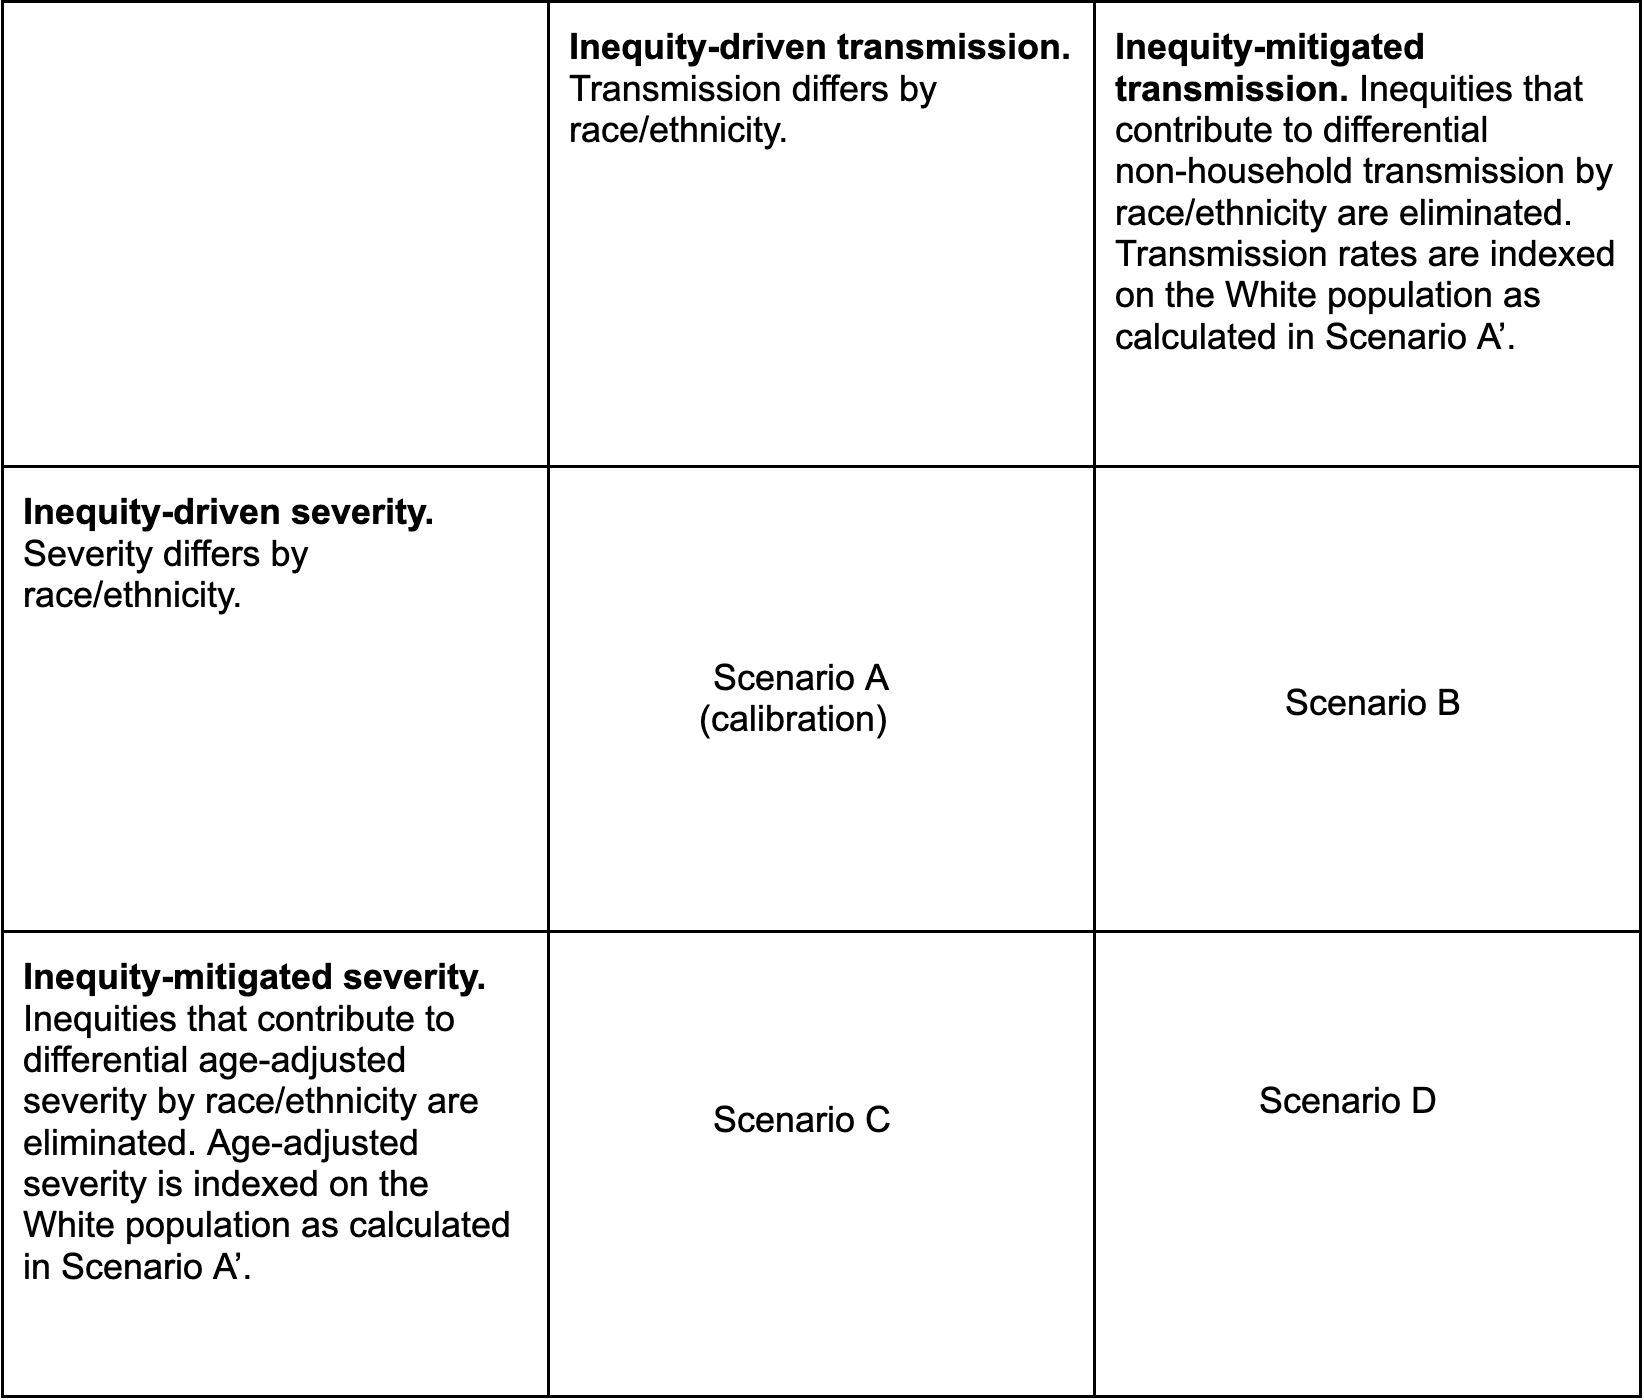
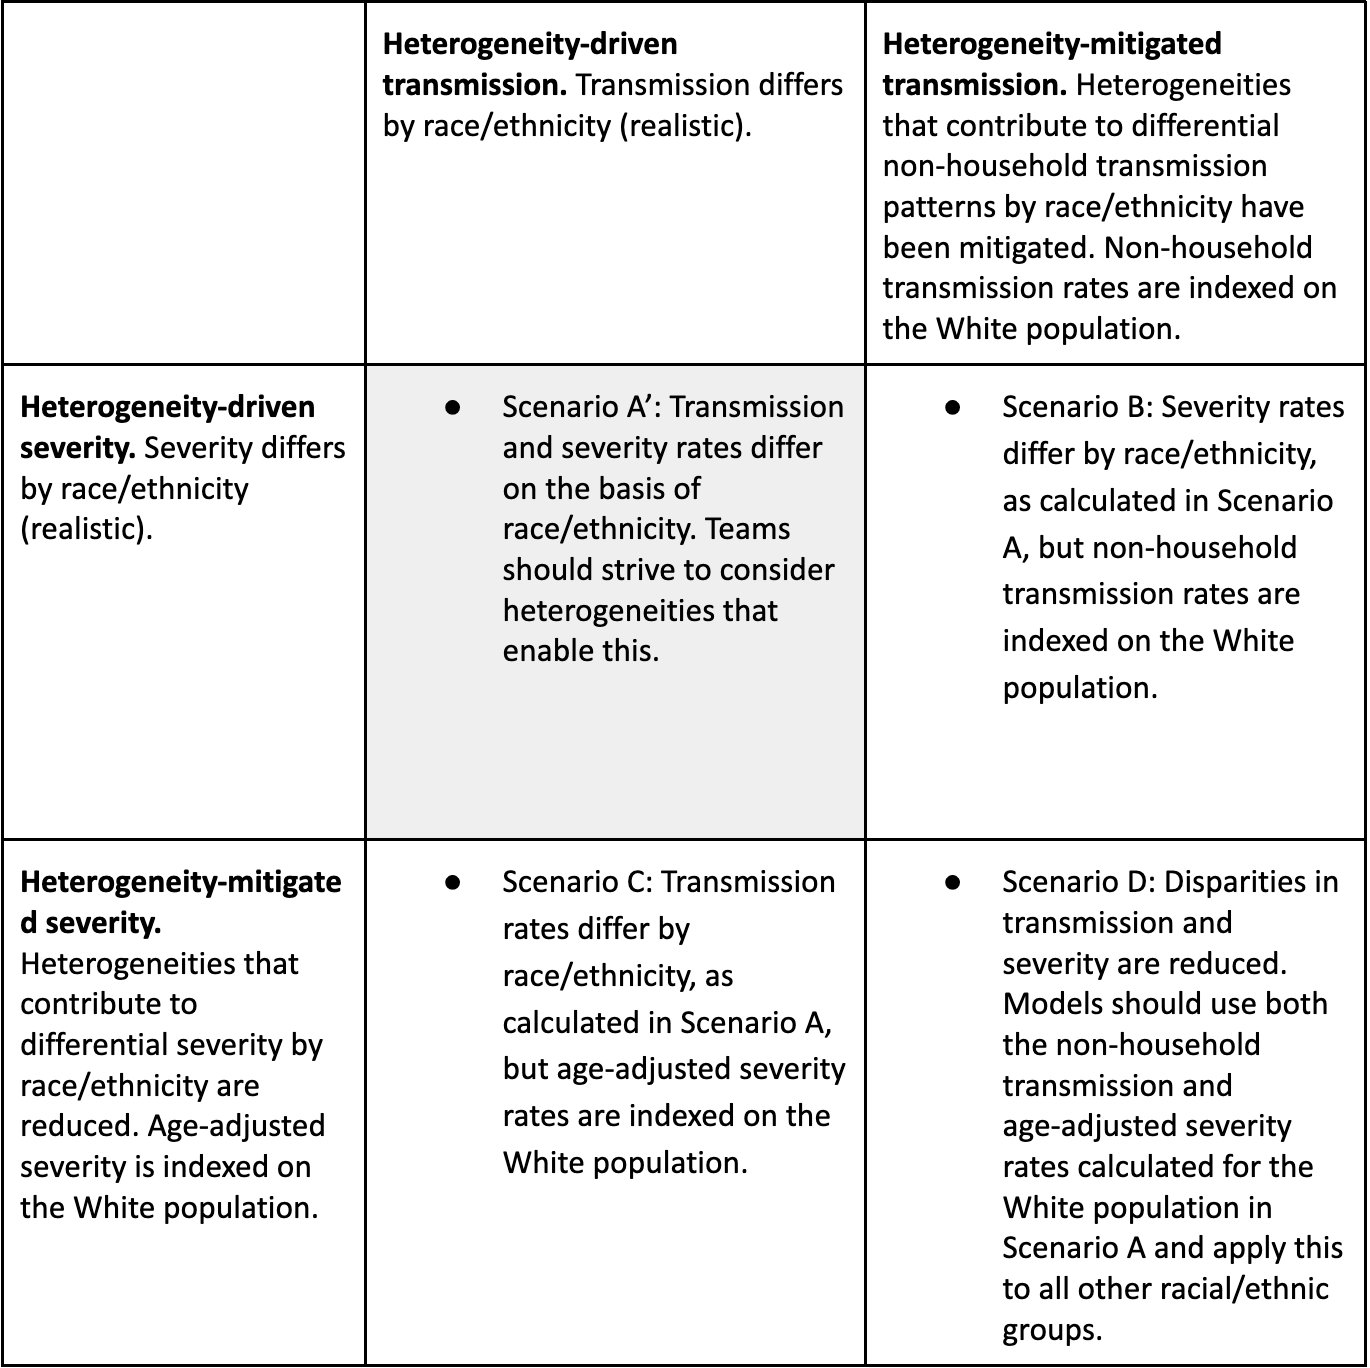
update documentation

diff --git a/README.md b/README.md
@@ -47,13 +47,13 @@ Technical instructions for submission and required file formats can be found
 
 We observed disparities in COVID-19 outcomes by sociodemographic factors such as
 age, location, race/ethnicity, occupation, and socioeconomic status, yet most
-epidemiological models do not account for structural inequities that contribute
+epidemiological models do not account for structural heterogeneities that contribute
 to differential transmission and severity risk among these groups. This round
 aims to build multi-model capacity within the Scenario Modeling Hub to model
 and project how disease is distributed differentially among racial/ethnic
 subpopulations. A secondary goal is to retrospectively assess the COVID-19
 disease burden that could have been averted if various sources of health
-inequities were reduced or mitigated. The round will focus on two US states,
+heterogeneities were reduced or mitigated. The round will focus on two US states,
 California and North Carolina, where more detailed epidemiological data are
 available.
 
@@ -65,7 +65,7 @@ consultation with academic modeling teams and government agencies (e.g., CDC).
 
 In Phase 1, teams will calibrate to case and death data by race/ethnicity from
 5/1/2020 – 11/14/2020 and project forward to 11/15/2020 – 4/3/2021 in a single
-Scenario A. Teams are required to incorporate health inequities that contribute
+Scenario A. Teams are required to incorporate health heterogeneities that contribute
 to differential transmission risk and severity by race/ethnicity, where
 severity is defined as the probability of death given infection. Teams will be
 evaluated on their ability to model race/ethnicity-specific death time series
@@ -82,13 +82,13 @@ scenario as follows:
 
 ### Disparities Round Phase 2: By how much could we have reduced disparities in COVID-19 deaths? 
 
-The goals of Phase 2 are to explore the potential impact of reducing inequities
+The goals of Phase 2 are to explore the potential impact of reducing heterogeneities
 in transmission risk, severity, or both during the same phase of the pandemic
 projected in Phase 1. In Phase 2, teams will be permitted to calibrate from
 5/1/2020 – 4/3/2021 to generate projections for Scenario A
 (representing empirically observed disparities). This will ensure that teams
 have captured disparities accurately throughout the entire time period so that
-the impact of reducing sources of inequities can be soundly assessed in
+the impact of reducing sources of heterogeneities can be soundly assessed in
 putative Scenarios B-D. 
 
 Thus Scenario A can be interpreted as a fitting exercise as opposed to
@@ -304,11 +304,11 @@ The folder contains multiple sub-folders:
 
 | Phase | Type | Scenario | Scenario name | Scenario ID for submission file (`scenario_id`) |
 |:--------:|:--------:| ---------------------------------------------- |:-----------------:|:--------------------:|
-|1| Projection  | Scenario A. Inequity-driven transmission and severity by race/ethnicity                        | phase_one      | A-2020-05-01 |
-|2| Calibration | Scenario A. Inequity-driven transmission and severity by race/ethnicity                        | inTran_inSev   | A-2020-11-15 |
-|2| Projection  | Scenario B. Inequity-mitigated transmission and inequity-driven severity by race/ethnicity     | mitTran_inSev  | B-2020-11-15 |
-|2| Projection  | Scenario C. Inequity-driven transmission and inequity-mitigated severity by race/ethnicity     | inTran_mitSev  | C-2020-11-15 | 
-|2| Projection  | Scenario D.  Inequity-mitigated transmission and inequity-mitigated severity by race/ethnicity | mitTran_mitSev | D-2020-11-15 |
+|1| Projection  | Scenario A. Heterogeneity-driven transmission and severity by race/ethnicity                             | phase_one     | A-2020-05-01 |
+|2| Calibration | Scenario A. Heterogeneity-driven transmission and severity by race/ethnicity                             | inHet_inSev   | A-2020-11-15 |
+|2| Projection  | Scenario B. Heterogeneity-mitigated transmission and Heterogeneity-driven severity by race/ethnicity     | mitHet_inSev  | B-2020-11-15 |
+|2| Projection  | Scenario C. Heterogeneity-driven transmission and Heterogeneity-mitigated severity by race/ethnicity     | inHet_mitSev  | C-2020-11-15 |
+|2| Projection  | Scenario D.  Heterogeneity-mitigated transmission and Heterogeneity-mitigated severity by race/ethnicity | mitHet_mitSev | D-2020-11-15 |
 
 - End date for fitting data for Phase 1: Saturday November 14, 2020
 - Start date for scenarios: Sunday November 15, 2020 (first date of simulated 

diff --git a/rounds/round1_phase2.md b/rounds/round1_phase2.md
@@ -2,13 +2,13 @@
 
 We observed disparities in COVID-19 outcomes by sociodemographic factors such as
 age, location, race/ethnicity, occupation, and socioeconomic status, yet most
-epidemiological models do not account for structural inequities that contribute
+epidemiological models do not account for structural heterogeneities that contribute
 to differential transmission and severity risk among these groups. This round
 aims to build multi-model capacity within the Scenario Modeling Hub to model
 and project how disease is distributed differentially among racial/ethnic
 subpopulations. A secondary goal is to retrospectively assess the COVID-19
 disease burden that could have been averted if various sources of health
-inequities were reduced or mitigated. The round will focus on two US states,
+heterogeneities were reduced or mitigated. The round will focus on two US states,
 California and North Carolina, where more detailed epidemiological data are
 available.
 
@@ -18,13 +18,13 @@ consultation with academic modeling teams and government agencies (e.g., CDC).
 
 ### Disparities Round Phase 2: By how much could we have reduced disparities in COVID-19 deaths? 
 
-The goals of Phase 2 are to explore the potential impact of reducing inequities
+The goals of Phase 2 are to explore the potential impact of reducing heterogeneities
 in transmission risk, severity, or both during the same phase of the pandemic
 projected in Phase 1. In Phase 2, teams will be permitted to calibrate from
 5/1/2020 – 4/3/2021 to generate projections for Scenario A
 (representing empirically observed disparities). This will ensure that teams
 have captured disparities accurately throughout the entire time period so that
-the impact of reducing sources of inequities can be soundly assessed in
+the impact of reducing sources of heterogeneities can be soundly assessed in
 putative Scenarios B-D. 
 
 Thus Scenario A can be interpreted as a fitting exercise as opposed to
@@ -241,10 +241,10 @@ The folder contains multiple sub-folders:
 
 | Scenario | Scenario name | Scenario ID for submission file (`scenario_id`) |
 | ---------------------------------------------- |:-----------------:|:--------------------:|
-| Scenario A. Inequity-driven transmission and severity by race/ethnicity                        | inTran_inSev   | A-2020-11-15 |
-| Scenario B. Inequity-mitigated transmission and inequity-driven severity by race/ethnicity     | mitTran_inSev  | B-2020-11-15 |
-| Scenario C. Inequity-driven transmission and inequity-mitigated severity by race/ethnicity     | inTran_mitSev  | C-2020-11-15 | 
-| Scenario D.  Inequity-mitigated transmission and inequity-mitigated severity by race/ethnicity | mitTran_mitSev | D-2020-11-15 |
+| Scenario A. Heterogeneity-driven transmission and severity by race/ethnicity                            | inHet_inSev   | A-2020-11-15 |
+| Scenario B. Heterogeneity-mitigated transmission and heterogeneity-driven severity by race/ethnicity    | mitHet_inSev  | B-2020-11-15 |
+| Scenario C. Heterogeneity-driven transmission and heterogeneity-mitigated severity by race/ethnicity    | inHet_mitSev  | C-2020-11-15 | 
+| Scenario D. Heterogeneity-mitigated transmission and heterogeneity-mitigated severity by race/ethnicity | mitHet_mitSev | D-2020-11-15 |
 
 - End date for fitting data for Phase 1: Saturday November 14, 2020
 - Start date for scenarios: Sunday November 15, 2020 (first date of simulated 

diff --git a/rounds/round1_phase1.md b/rounds/round1_phase1.md
@@ -2,13 +2,13 @@
 
 We observed disparities in COVID-19 outcomes by sociodemographic factors such as
 age, location, race/ethnicity, occupation, and socioeconomic status, yet most
-epidemiological models do not account for structural inequities that contribute
+epidemiological models do not account for structural heterogeneities that contribute
 to differential transmission and severity risk among these groups. This round
 aims to build multi-model capacity within the Scenario Modeling Hub to model
 and project how disease is distributed differentially among racial/ethnic
 subpopulations. A secondary goal is to retrospectively assess the COVID-19
 disease burden that could have been averted if various sources of health
-inequities were reduced or mitigated. The round will focus on two US states,
+heterogeneities were reduced or mitigated. The round will focus on two US states,
 California and North Carolina, where more detailed epidemiological data are
 available.
 
@@ -20,7 +20,7 @@ consultation with academic modeling teams and government agencies (e.g., CDC).
 
 In Phase 1, teams will calibrate to case and death data by race/ethnicity from
 5/1/2020 – 11/14/2020 and project forward to 11/15/2020 – 4/3/2021 in a single
-Scenario A. Teams are required to incorporate health inequities that contribute
+Scenario A. Teams are required to incorporate health heterogeneities that contribute
 to differential transmission risk and severity by race/ethnicity, where
 severity is defined as the probability of death given infection. Teams will be
 evaluated on their ability to model race/ethnicity-specific death time series
@@ -223,7 +223,7 @@ The folder contains multiple sub-folders:
 
 | Scenario | Scenario name | Scenario ID for submission file (`scenario_id`) |
 | ---------------------------------------------- |:-----------------:|:--------------------:|
-| Scenario A. Inequity-driven transmission and severity by race/ethnicity  | phase_one  | A-2020-05-01 |
+| Scenario A. Heterogeneity-driven transmission and severity by race/ethnicity  | phase_one  | A-2020-05-01 |
 
 - End date for fitting data for Phase 1: Saturday November 14, 2020
 - Start date for scenarios: Sunday November 15, 2020 (first date of simulated 
